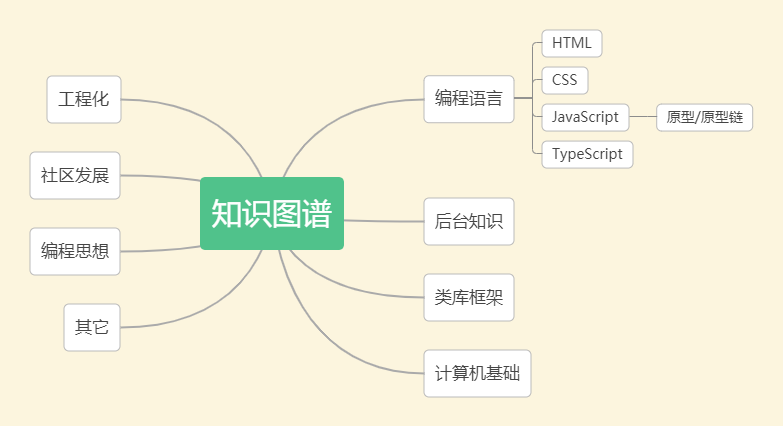
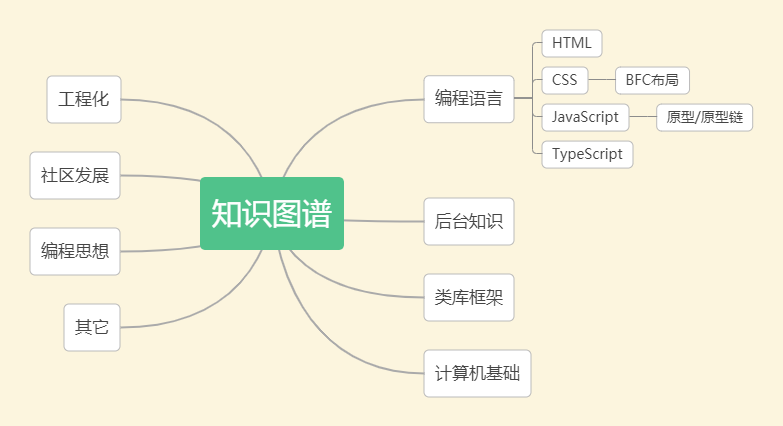
docs: BFC

Changed region(s): [[0.7663, 0.1526, 0.8889, 0.2441]]

diff --git a/Language/CSS/什么是BFC.md b/Language/CSS/什么是BFC.md
@@ -1,0 +1,191 @@
+### 一、BFC定义
+
+BFC 全称 Block Formatting Context，即块级格式化上下文。它是一个独立的渲染区域，在这个区域中，只有block box 参与布局，并且与这个区域外部毫不相干。
+
+关于box的概念:
+
+Box是CSS布局的对象和基本单位，换句话说，我们看到的页面是由很多个box组成的。元素的类型和display属性，决定了这个box的类型。不同类型的 Box， 会参与不同的 Formatting Context（一个决定如何渲染文档的容器），因此Box内的元素会以不同的方式渲染。
+
+block-level box: 指 display属性为 block、list-item、table 的元素;
+inline-level box: 指 display 属性为inline,inline,inline-table 的元素;
+run in box: CSS3规范中新加的属性;
+
+### 二、如何形成BFC
+
+- 根元素或其他包含它的元素
+- 浮动元素（元素的float不是none）
+- 绝对定位元素（元素具有 position为absolute或fixed）
+- 内联块（元素具有 display : inline-block）
+- 具有overflow且值不是 visible 的块元素
+- 表格单元格（元素具有 display: table-cell,html表格单元格默认属性）
+- 表格标题（元素具有 display:table-caption, html表格标题默认属性）
+- display:flow-root 的元素，这是唯一没有副作用的一种
+- column-span: all 的元素
+
+### 三、BFC的布局规则
+
+- 内部的box将会独占宽度，且在垂直方向，一个接一个排列
+- Box垂直方向的距离由margin决定，属于同一个BFC的两个相邻Box的margin会发生重叠
+- 每个盒子（块盒与行盒）的margin box的左边，与包含块border box的左边相接触(对于从左往右的格式化，否则相反)，即使存在浮动也是如此
+- BFC 区域不会与浮动元素重叠，而是会依次排列
+- BFC区域内是一个独立的渲染容器，容器内元素和BFC区域外元素不会形成任何干扰
+- 计算BFC的高度时，浮动元素也参与计算
+
+### 四、BFC的应用
+
+1. 利用BFC避免margin重叠
+
+```
+<body>
+    <div class="box"></div>
+    <div class="box"></div>
+</body>
+
+    <style>
+        * {
+            margin: 0;
+            padding: 0;
+        }
+
+        .box {
+            width: 100px;
+            height: 100px;
+            background: lightblue;
+            margin: 100px;
+        }
+    </style>
+```
+
+![BFC margin](images/001.png)
+
+从效果上看，因为两个 div 元素都处于同一个 BFC 容器下 (这里指 body 元素) 所以第一个 div 的下边距和第二个 div 的上边距发生了重叠，所以两个盒子之间距离只有 100px，而不是 200px。
+
+**如果想要避免外边距的重叠，可以将其放在不同的 BFC 容器中**
+
+```
+<body>
+    <div class="box">
+        <p></p>
+    </div>
+    <div class="box">
+        <p></p>
+    </div>
+</body>
+
+    <style>
+        * {
+            margin: 0;
+            padding: 0;
+        }
+
+        .box {
+            overflow: hidden;
+        }
+
+        p {
+            width: 100px;
+            height: 100px;
+            background: lightblue;
+            margin: 100px;
+        }
+    </style>
+```
+
+![BFC margin](images/002.png)
+
+2. 使用 BFC 包含浮动的元素(清除浮动)
+
+```
+<body>
+    <div style="border: 1px solid #000;">
+        <div style="width: 100px;height: 100px;background: #eee;float: left;"></div>
+    </div>
+</body>
+```
+
+![BFC float](images/003.png)
+
+由于容器内元素浮动，脱离了文档流，所以容器只剩下 2px 的边距高度。如果使触发容器的 BFC，那么容器将会包裹着浮动元素。
+
+```
+<body>
+    <div style="border: 1px solid #000;overflow: hidden">
+        <div style="width: 100px;height: 100px;background: #eee;float: left;"></div>
+    </div>
+</body>
+```
+
+![BFC float](images/004.png)
+
+3.  BFC 可以阻止元素被浮动元素覆盖(使用BFC避免文字环绕)
+
+```
+<body>
+    <div class="left">我在左侧</div>
+    <div class="right">
+        我是右侧的文字我是右侧的文字我是右侧的文字我是右侧的文字我是右侧的文字我是右侧的文字我是右侧的文字我是右侧的文字
+    </div>
+</body>
+
+    <style>
+        * {
+            margin: 0;
+            padding: 0;
+        }
+
+        .left {
+            width: 100px;
+            height: 100px;
+            background: lightblue;
+            float: left;
+        }
+
+        .right {
+            width: 200px;
+            height: 200px;
+            background: #eee;
+        }
+    </style>
+```
+
+![BFC float](images/005.png)
+
+第二个元素有部分被浮动元素所覆盖，(但是文本信息不会被浮动元素所覆盖) 如果想避免元素被覆盖，可以利用第二个元素的 BFC 特性。
+
+![BFC float](images/006.png)
+
+4. 自适应两栏布局
+
+```
+<body>
+    <div class="left">我在左侧</div>
+    <div class="right">我是右侧的文字我是右侧的文字我是右侧的文字我是右侧的文字我是右侧的文字我是右侧的文字我是右侧的文字我是右侧的文字</div>
+</body>
+
+    <style>
+        * {
+            margin: 0;
+            padding: 0;
+        }
+
+        .left {
+            width: 100px;
+            height: 150px;
+            float: left;
+            background: lightblue;
+        }
+
+        .right {
+            overflow: hidden;
+            height: 300px;
+            background: #eee;
+        }
+    </style>
+```
+
+![BFC 两栏布局](images/005.png)
+
+原理:
+
+- 每个盒子（块盒与行盒）的margin box的左边，与包含块border box的左边相接触(对于从左往右的格式化，否则相反)，即使存在浮动也是如此
+- BFC 区域不会与浮动元素(float box)重叠，而是会依次排列

diff --git a/README.md b/README.md
@@ -13,6 +13,10 @@
 
 ### 编程语言
 
+#### CSS
+
+- [什么是BFC](Language/CSS/什么是BFC.md)
+
 #### JavaScript
 
 - [原型](Language/JavaScript/原型.md)
